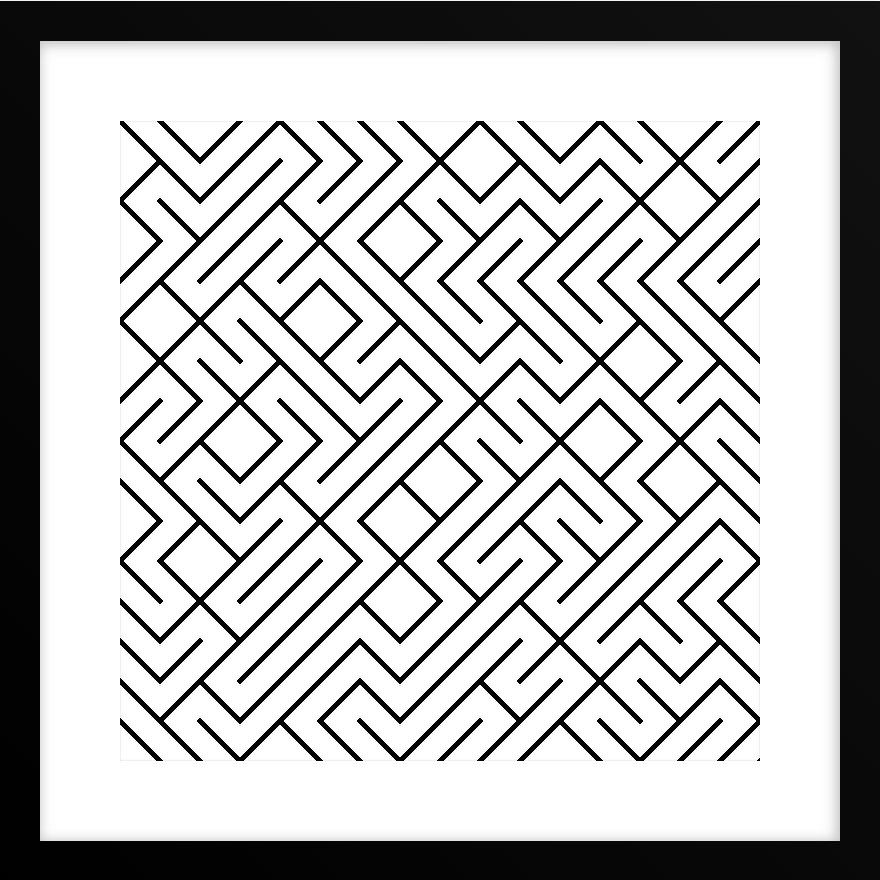
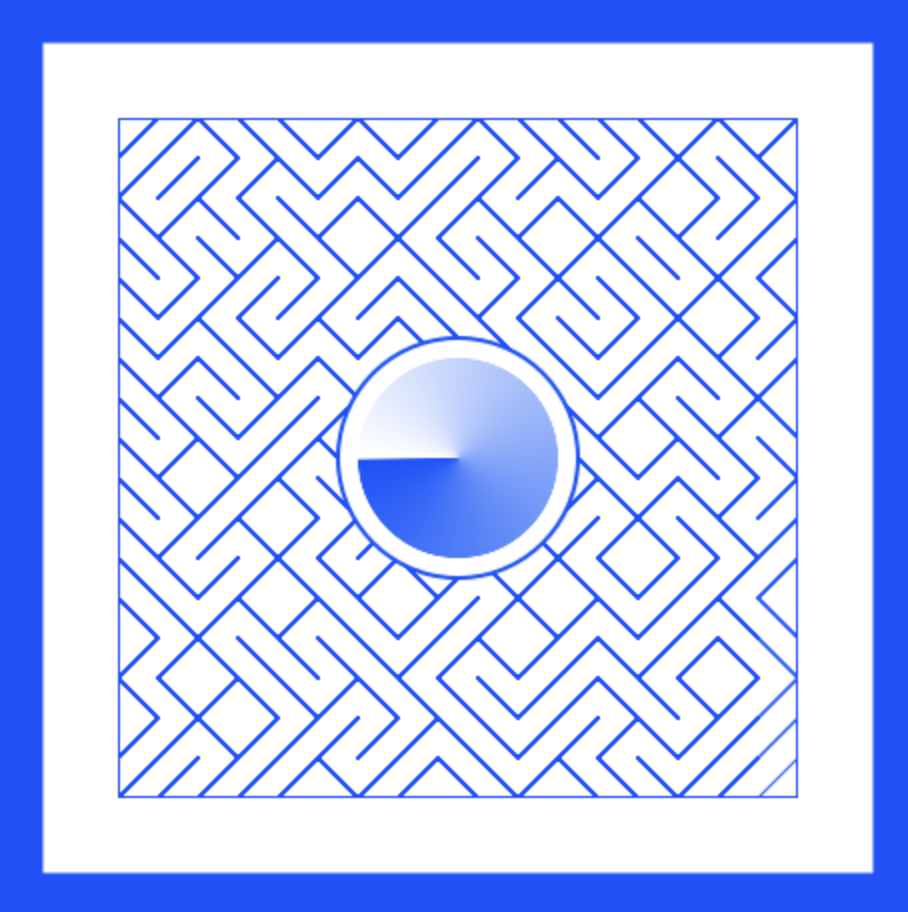
feat: base

diff --git a/api/index.ts b/api/index.ts
@@ -1,7 +1,7 @@
-import { createCanvas } from "canvas";
+import { createCanvas, loadImage } from "canvas";
 import { VercelRequest, VercelResponse } from "@vercel/node";
+import fetch from "node-fetch"; // Using node-fetch to fetch the image from URL
 
-// Simple hash function to generate a consistent seed from input
 function hashString(str: string) {
   let hash = 0;
   for (let i = 0; i < str.length; i++) {
@@ -12,7 +12,6 @@ function hashString(str: string) {
   return Math.abs(hash);
 }
 
-// PRNG based on a simple linear congruential generator
 function seededRandom(seed: number) {
   let value = seed % 2147483647;
   return () => {
@@ -23,12 +22,9 @@ function seededRandom(seed: number) {
 
 function drawPattern(canvas: any, random: () => number) {
   const ctx = canvas.getContext("2d");
-  const width = canvas.width;
-  const height = canvas.height;
-
   const size = 340;
   const step = 20;
-  const dpr = 1; // Assuming a default DPR of 1 for server-side rendering
+  const dpr = 1;
   canvas.width = size * dpr;
   canvas.height = size * dpr;
   ctx.scale(dpr, dpr);
@@ -44,13 +40,11 @@ function drawPattern(canvas: any, random: () => number) {
       ctx.moveTo(x + width, y);
       ctx.lineTo(x, y + height);
     }
-
     ctx.stroke();
   }
 
-  // Draw border around the pattern
-  ctx.lineWidth = 0.2;
-  ctx.strokeStyle = "#000";
+  ctx.lineWidth = 2;
+  ctx.strokeStyle = "#0052fe";
   ctx.strokeRect(0, 0, size * dpr, size * dpr);
 
   for (let x = 0; x < size; x += step) {
@@ -61,13 +55,6 @@ function drawPattern(canvas: any, random: () => number) {
   }
 }
 
-/**
- * API endpoint handler that generates the art pattern image.
- *
- * @param req - Vercel HTTP request object
- * @param res - Vercel HTTP response object
- * @returns PNG image buffer
- */
 export default async function handler(req: VercelRequest, res: VercelResponse) {
   if (req.method !== "GET") {
     return res.status(405).json({ error: "Method Not Allowed" });
@@ -75,7 +62,6 @@ export default async function handler(req: VercelRequest, res: VercelResponse) {
 
   const { address = "", data = "" } = req.query;
 
-  // Combine address and data into a single string to generate a unique seed
   const seed = hashString(`${address}${data}`);
   const random = seededRandom(seed);
 
@@ -85,19 +71,44 @@ export default async function handler(req: VercelRequest, res: VercelResponse) {
 
   const ctx = canvas.getContext("2d");
 
-  // Draw gray border
   ctx.fillStyle = "#FFF";
   ctx.fillRect(0, 0, frameSize, frameSize);
 
-  // Draw green frame
-  ctx.strokeStyle = "#000";
-  ctx.lineWidth = 45;
-  ctx.strokeRect(0, 0, frameSize, frameSize);
-
-  // Draw pattern inside frame
   const patternCanvas = createCanvas(320, 320);
   drawPattern(patternCanvas, random);
   ctx.drawImage(patternCanvas, padding, padding);
+
+  ctx.strokeStyle = "#0052fe";
+  ctx.lineWidth = 45;
+  ctx.strokeRect(0, 0, frameSize, frameSize);
+
+  try {
+    const response = await fetch(
+      "https://altcoinsbox.com/wp-content/uploads/2023/02/base-logo-in-blue.png"
+    );
+    const buffer = await response.buffer();
+    const baseImage = await loadImage(buffer);
+    const scaledWidth = 100;
+    const scaledHeight = 100;
+    const baseX = (frameSize - scaledWidth) / 2;
+    const baseY = (frameSize - scaledHeight) / 2;
+
+    // Draw circular background
+    ctx.beginPath();
+    ctx.arc(baseX + scaledWidth/2, baseY + scaledHeight/2, scaledWidth/2 + 10, 0, Math.PI * 2);
+    ctx.fillStyle = "#fff";
+    ctx.fill();
+
+    // Add white border
+    ctx.strokeStyle = "#0052fe";
+    ctx.lineWidth = 2;
+    ctx.stroke();
+
+    // Draw the image
+    ctx.drawImage(baseImage, baseX, baseY, scaledWidth, scaledHeight);
+  } catch (error) {
+    console.error("Failed to load base image:", error);
+  }
 
   const buffer = canvas.toBuffer("image/png");
   res.setHeader("Content-Type", "image/png");
